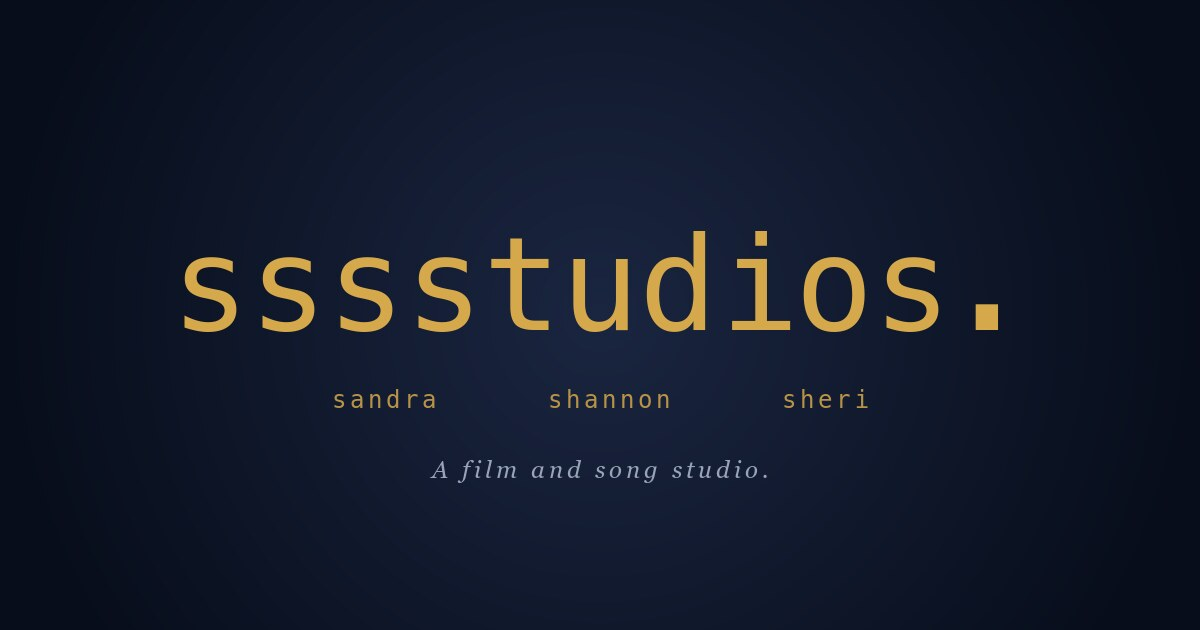
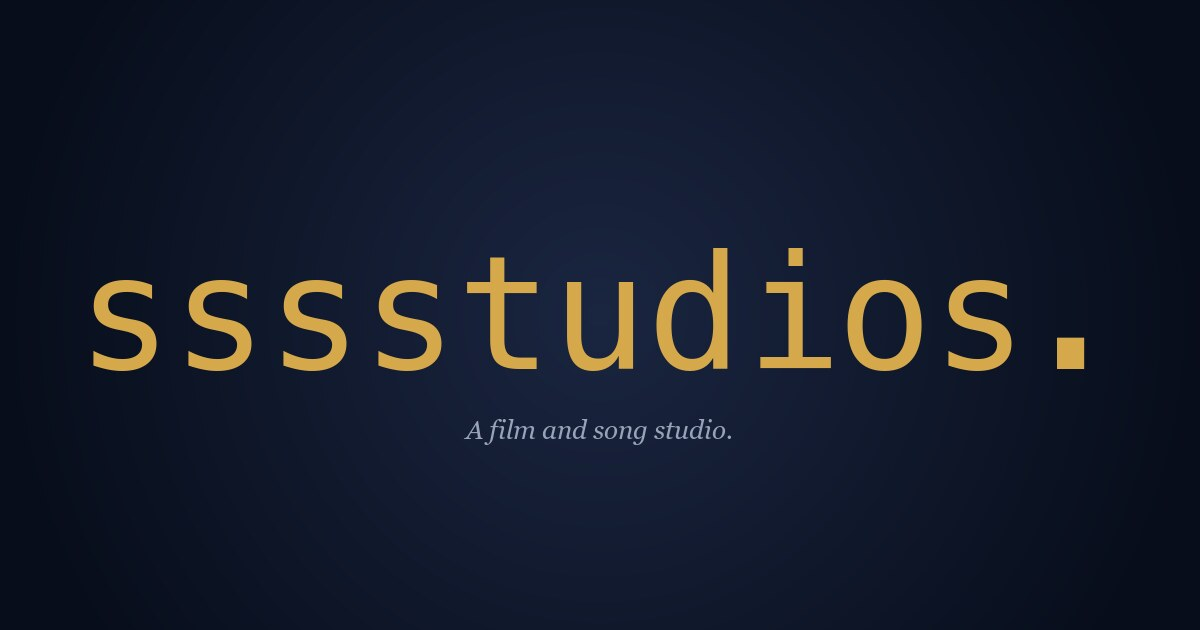
sss: brand mark stands alone (v3 — five-s math)
new hero animation: type 'sssstudios.' straight through.
no firefly metaphor (that belonged to bug, not the studio).
the trailing s — sheri's bookend — gets a quiet warm glow as it lands.
the period drops in last with a soft pop. that's the signature.

dedication line stripped. story lives elsewhere — in the page,
in the substack post, in the answer at the bar. the mark stands alone.

og card: just sssstudios. on cobalt with subtle radial glow + small italic tagline.

the math: five S's across the word — sss=sandra (her initials),
4th s=shannon, 5th s (trailing in 'studios')=sheri the bookend.
documented in MEMORY (project_sssstudios_five_s_math.md).

Changed region(s): [[0.0617, 0.3619, 0.925, 0.6937], [0.37, 0.7238, 0.6167, 0.754]]

diff --git a/sss/index.html b/sss/index.html
@@ -5,19 +5,19 @@
     <meta name="viewport" content="width=device-width, initial-scale=1.0, viewport-fit=cover">
     <meta name="color-scheme" content="dark">
     <meta name="theme-color" content="#070d1a">
-    <title>sssstudios</title>
-    <meta name="description" content="A film and song studio. Sandra. Shannon. Sheri. The first film is lightning/bug.">
+    <title>sssstudios.</title>
+    <meta name="description" content="A film and song studio. The first one is lightning/bug.">
     <meta name="author" content="Derek Claude Simmons">
 
-    <meta property="og:title" content="sssstudios">
-    <meta property="og:description" content="A film and song studio. Sandra. Shannon. Sheri. The first film is lightning/bug.">
+    <meta property="og:title" content="sssstudios.">
+    <meta property="og:description" content="A film and song studio. The first one is lightning/bug.">
     <meta property="og:type" content="website">
     <meta property="og:url" content="https://claudewill.io/sss">
     <meta property="og:image" content="https://claudewill.io/images/sss/og-poster.jpg">
 
     <meta name="twitter:card" content="summary_large_image">
-    <meta name="twitter:title" content="sssstudios">
-    <meta name="twitter:description" content="A film and song studio. Sandra. Shannon. Sheri.">
+    <meta name="twitter:title" content="sssstudios.">
+    <meta name="twitter:description" content="A film and song studio.">
     <meta name="twitter:image" content="https://claudewill.io/images/sss/og-poster.jpg">
 
     <link rel="canonical" href="https://claudewill.io/sss">
@@ -31,7 +31,7 @@
             --cobalt-deep: #070d1a;
             --cobalt: #0a1628;
             --amber: #d4a84b;
-            --amber-bright: #e8c068;
+            --amber-warm: #e8c068;
             --amber-soft: #b89346;
             --amber-faint: rgba(212, 168, 75, 0.08);
             --text: #c8d0dc;
@@ -79,15 +79,15 @@
             text-align: center;
         }
 
-        /* Soft warm glow at center, cooling outward — like a lantern in a dark field */
+        /* Soft warm glow at center, cooling outward */
         .hero::before {
             content: '';
             position: absolute;
             inset: 0;
             background: radial-gradient(
-                ellipse at 50% 48%,
-                rgba(212, 168, 75, 0.06) 0%,
-                rgba(212, 168, 75, 0.02) 30%,
+                ellipse at 50% 50%,
+                rgba(212, 168, 75, 0.07) 0%,
+                rgba(212, 168, 75, 0.02) 32%,
                 rgba(7, 13, 26, 0) 70%
             );
             pointer-events: none;
@@ -102,7 +102,7 @@
             background: radial-gradient(
                 ellipse at center,
                 rgba(7, 13, 26, 0) 50%,
-                rgba(7, 13, 26, 0.55) 100%
+                rgba(7, 13, 26, 0.6) 100%
             );
             pointer-events: none;
             z-index: 1;
@@ -114,13 +114,13 @@
             display: flex;
             flex-direction: column;
             align-items: center;
-            gap: 1.5rem;
+            gap: 2rem;
         }
 
         /* The brand mark — sssstudios. */
         .brand {
             font-family: var(--mono);
-            font-size: clamp(2.6rem, 11vw, 6rem);
+            font-size: clamp(2.4rem, 10vw, 5.5rem);
             font-weight: 400;
             color: var(--amber);
             letter-spacing: -0.025em;
@@ -128,51 +128,39 @@
             display: inline-flex;
             align-items: baseline;
             min-height: 1em;
+            white-space: nowrap;
         }
 
-        /* Each S starts at width 0, opacity 0. Fires reveal-pulse in sequence. */
-        .s {
-            display: inline-block;
-            overflow: hidden;
-            width: 0;
-            opacity: 0;
-            color: var(--amber);
-            white-space: pre;
-        }
-
-        .s.lit {
-            animation: s-reveal 0.6s ease-out forwards, firefly-pulse 1.4s ease-out 0.05s;
-        }
-
-        @keyframes s-reveal {
-            0% { width: 0; opacity: 0; }
-            100% { width: 0.62em; opacity: 1; }
-        }
-
-        @keyframes firefly-pulse {
-            0%   { filter: brightness(0.7); text-shadow: 0 0 0 transparent; }
-            14%  { filter: brightness(2.2); text-shadow: 0 0 32px rgba(232, 192, 104, 0.95), 0 0 8px rgba(255, 220, 140, 0.8); }
-            40%  { filter: brightness(1.1); text-shadow: 0 0 12px rgba(212, 168, 75, 0.4); }
-            100% { filter: brightness(1.0); text-shadow: 0 0 0 transparent; }
-        }
-
-        .rest {
-            display: inline-block;
-            white-space: pre;
-            color: var(--amber);
-            opacity: 0;
-            animation: rest-fade 0.001s linear 0.4s forwards;
-        }
-        @keyframes rest-fade { to { opacity: 1; } }
-
-        /* Each character of "studios." appears via per-char span, animated by JS */
-        .rest .ch {
+        /* Each character is a span. Type animates them in left-to-right. */
+        .brand .ch {
             display: inline-block;
             opacity: 0;
             transform: translateY(2px);
-            transition: opacity 0.18s ease-out, transform 0.18s ease-out;
+            transition: opacity 0.2s ease-out, transform 0.2s ease-out;
+            color: var(--amber);
         }
-        .rest .ch.shown { opacity: 1; transform: translateY(0); }
+        .brand .ch.shown { opacity: 1; transform: translateY(0); }
+
+        /* The trailing s (Sheri — the bookend) holds a quiet residual warmth */
+        .brand .ch.bookend.lit {
+            animation: bookend-glow 1.6s ease-out forwards;
+        }
+
+        @keyframes bookend-glow {
+            0%   { text-shadow: 0 0 0 transparent; filter: brightness(1); color: var(--amber); }
+            30%  { text-shadow: 0 0 28px rgba(212, 168, 75, 0.55), 0 0 6px rgba(232, 192, 104, 0.45); filter: brightness(1.45); color: var(--amber-warm); }
+            100% { text-shadow: 0 0 16px rgba(212, 168, 75, 0.28); filter: brightness(1.04); color: var(--amber); }
+        }
+
+        /* The period is the signature — gets the final beat */
+        .brand .period {
+            display: inline-block;
+            opacity: 0;
+            transform: scale(0.6);
+            transition: opacity 0.4s ease-out, transform 0.4s cubic-bezier(0.34, 1.56, 0.64, 1);
+            color: var(--amber);
+        }
+        .brand .period.shown { opacity: 1; transform: scale(1); }
 
         .cursor {
             display: inline-block;
@@ -188,35 +176,15 @@
             51%, 100% { opacity: 0; }
         }
 
-        /* Dedication row — names align under their respective S, fade in synced */
-        .dedication {
-            display: flex;
-            gap: clamp(1.5rem, 5vw, 3rem);
-            justify-content: center;
-            font-family: var(--mono);
-            font-size: clamp(0.66rem, 1.7vw, 0.8rem);
-            color: var(--amber-soft);
-            letter-spacing: 0.32em;
-            text-transform: lowercase;
-        }
-
-        .dedication .name {
-            opacity: 0;
-            transition: opacity 0.6s ease-out;
-        }
-
-        .dedication .name.shown { opacity: 0.85; }
-
         .tagline {
             font-family: var(--serif);
             font-style: italic;
-            font-size: clamp(0.95rem, 2.1vw, 1.1rem);
+            font-size: clamp(0.95rem, 2.1vw, 1.15rem);
             color: var(--text-soft);
-            max-width: 28rem;
+            max-width: 30rem;
             font-weight: 300;
             opacity: 0;
             transition: opacity 1.2s ease-out;
-            margin-top: 0.5rem;
         }
         .tagline.shown { opacity: 1; }
 
@@ -271,9 +239,7 @@
             background: var(--cobalt-deep);
         }
 
-        .hero-body {
-            padding: 2rem 1.75rem 2.25rem;
-        }
+        .hero-body { padding: 2rem 1.75rem 2.25rem; }
 
         .film-meta {
             font-family: var(--mono);
@@ -313,10 +279,7 @@
             padding-bottom: 2px;
         }
 
-        .film-cta:hover {
-            border-bottom-color: var(--amber);
-            opacity: 1;
-        }
+        .film-cta:hover { border-bottom-color: var(--amber); opacity: 1; }
 
         /* ===== In-production cards ===== */
         .section-label {
@@ -428,11 +391,9 @@
 
         /* Reduced motion: kill animations, show end state */
         @media (prefers-reduced-motion: reduce) {
-            .s, .s.lit { width: 0.62em !important; opacity: 1 !important; animation: none !important; }
-            .rest { opacity: 1 !important; animation: none !important; }
-            .rest .ch { opacity: 1 !important; transform: none !important; }
-            .dedication .name { opacity: 0.85 !important; }
-            .tagline, .scroll-hint { opacity: 1 !important; }
+            .brand .ch, .brand .period { opacity: 1 !important; transform: none !important; animation: none !important; }
+            .brand .ch.bookend { color: var(--amber-warm) !important; text-shadow: 0 0 14px rgba(212, 168, 75, 0.28); }
+            .tagline, .scroll-hint { opacity: 1 !important; transition: none !important; }
             .cursor { display: none; }
         }
     </style>
@@ -444,14 +405,10 @@
     <div class="brand-stage">
 
         <h1 id="brandmark" class="brand" aria-label="sssstudios.">
-            <span class="s s1" aria-hidden="true">s</span><span class="s s2" aria-hidden="true">s</span><span class="s s3" aria-hidden="true">s</span><span class="rest" id="rest-text" aria-hidden="true"></span><span class="cursor" id="cursor" aria-hidden="true"></span>
+            <!-- 11 chars: s s s s t u d i o s .
+                 Position 10 (zero-indexed: 9) is the trailing s — Sheri's bookend. -->
+            <span class="ch" aria-hidden="true">s</span><span class="ch" aria-hidden="true">s</span><span class="ch" aria-hidden="true">s</span><span class="ch" aria-hidden="true">s</span><span class="ch" aria-hidden="true">t</span><span class="ch" aria-hidden="true">u</span><span class="ch" aria-hidden="true">d</span><span class="ch" aria-hidden="true">i</span><span class="ch" aria-hidden="true">o</span><span class="ch bookend" aria-hidden="true">s</span><span class="ch period" aria-hidden="true">.</span><span class="cursor" id="cursor" aria-hidden="true"></span>
         </h1>
-
-        <div class="dedication" aria-label="for sandra, for shannon, for sheri">
-            <span class="name d1">sandra</span>
-            <span class="name d2">shannon</span>
-            <span class="name d3">sheri</span>
-        </div>
 
         <p class="tagline" id="tagline">A film and song studio. The first one is <em>lightning/bug</em>.</p>
 
@@ -471,7 +428,7 @@
              alt="lightning/bug — a boy in a Kansas wheat field at dusk"
              loading="eager">
         <div class="hero-body">
-            <div class="film-meta">the first one · short film · 2026</div>
+            <div class="film-meta">the first one &middot; short film &middot; 2026</div>
             <h2 id="bug-title" class="film-title">lightning/bug</h2>
             <p class="film-logline">A boy. A bug. A bolt. Two kinds of light. Kansas.</p>
             <a class="film-cta" href="/lightning-bug">Watch the film &rarr;</a>
@@ -487,21 +444,21 @@
         <div class="cards">
 
             <article class="card">
-                <div class="card-meta">chamber piece · in production · summer 2026</div>
+                <div class="card-meta">chamber piece &middot; in production &middot; summer 2026</div>
                 <h3 class="card-title">Hallway Walz in D Minor</h3>
                 <p class="card-logline">A five-minute chamber piece. Composed and performed by one diminished man, in the saddest key, in a hallway he keeps returning to.</p>
                 <p class="card-summary">Nine Latin requiem movements. No windows. Doors only. The opposite of <em>lightning/bug</em> — the inside of the same year.</p>
             </article>
 
             <article class="card">
-                <div class="card-meta">music video · in production · summer 2026</div>
+                <div class="card-meta">music video &middot; in production &middot; summer 2026</div>
                 <h3 class="card-title">Buffalo Parade</h3>
                 <p class="card-logline">A buffalo carrying an electric guitar turns into the storm — because the only way through is through.</p>
                 <p class="card-summary">Northern plains, late afternoon into storm. Empire Builder country. A parable for the moment we're in: the storms you have to walk into rather than around. Song first; the visualization serves it.</p>
             </article>
 
             <article class="card">
-                <div class="card-meta">period series · pilot stage · 2026</div>
+                <div class="card-meta">period series &middot; pilot stage &middot; 2026</div>
                 <h3 class="card-title">River Pigs</h3>
                 <p class="card-logline">He recovers bodies from the river. It's the only honest job in the logging trade.</p>
                 <p class="card-summary">A frontier noir set on the St. Croix River during the 1880s Minnesota logging boom — when lumber barons built their fortunes on the backs of the men who rode the log drives and died in them. <em>Fargo</em> meets <em>Landman</em>, set in an era when white pine was America's most valuable commodity.</p>
@@ -534,67 +491,63 @@
 (function() {
     'use strict';
 
-    // Type "studios." into .rest, then light each S with a firefly pulse,
-    // then fade in the matching name in the dedication row.
+    // Type sssstudios. straight through. The bookend (trailing s) holds a quiet
+    // glow as it lands — Sheri arriving in her position. The period is the
+    // signature — final beat with a soft pop.
 
-    var REST = 'studios.';
-    var CHAR_DELAY = 75;            // ms per character of "studios."
-    var REST_START = 400;           // ms before "studios." starts typing
-    var REST_TO_FIRST_S = 700;      // ms from end of "studios." to first S
-    var S_GAP = 720;                // ms between each S reveal
-    var TAGLINE_DELAY = 1200;       // ms after last S → tagline
-    var SCROLL_DELAY = 2200;        // ms after last S → scroll hint
+    var CHAR_DELAY = 80;         // ms per character
+    var TYPE_START = 450;        // ms before typing begins
+    var BOOKEND_LIT_DELAY = 200; // ms after bookend "shown" → glow keyframe
+    var PERIOD_DELAY = 320;      // ms after bookend → period drops in
+    var TAGLINE_DELAY = 900;     // ms after period → tagline fade in
+    var SCROLL_DELAY = 1900;     // ms after period → scroll hint
 
     function $(sel) { return document.querySelector(sel); }
-    function spanCh(c) {
-        var s = document.createElement('span');
-        s.className = 'ch';
-        s.textContent = c;
-        return s;
-    }
+    function $$(sel) { return Array.prototype.slice.call(document.querySelectorAll(sel)); }
 
     function init() {
-        var rest = $('#rest-text');
+        var brand = $('.brand');
         var cursor = $('#cursor');
-        if (!rest) return;
+        if (!brand) return;
 
-        // Build per-character spans for "studios."
-        for (var i = 0; i < REST.length; i++) rest.appendChild(spanCh(REST[i]));
+        var chars = $$('.brand .ch:not(.period), .brand .period');
+        // chars order matches DOM: 4 s's, t, u, d, i, o, s (bookend), .
+        // 11 elements total.
 
-        var chs = rest.querySelectorAll('.ch');
+        var lastNonPeriodIndex = chars.length - 2; // index of trailing s (bookend)
+        var periodIndex = chars.length - 1;
 
-        // Reveal each char in sequence
-        var t = REST_START;
-        chs.forEach(function(ch, i) {
-            setTimeout(function() { ch.classList.add('shown'); }, t + i * CHAR_DELAY);
-        });
-
-        var endOfRest = REST_START + chs.length * CHAR_DELAY;
-
-        // Light each S in sequence + fade in matching name
-        var sNames = [['s1', 'd1'], ['s2', 'd2'], ['s3', 'd3']];
-        sNames.forEach(function(pair, i) {
-            var fireAt = endOfRest + REST_TO_FIRST_S + i * S_GAP;
+        var t = TYPE_START;
+        chars.forEach(function(el, i) {
+            // Period waits for bookend glow to fire first
+            if (i === periodIndex) return;
             setTimeout(function() {
-                var s = document.querySelector('.' + pair[0]);
-                var d = document.querySelector('.' + pair[1]);
-                if (s) s.classList.add('lit');
-                if (d) setTimeout(function() { d.classList.add('shown'); }, 250);
-            }, fireAt);
+                el.classList.add('shown');
+                if (el.classList.contains('bookend')) {
+                    setTimeout(function() {
+                        el.classList.add('lit');
+                    }, BOOKEND_LIT_DELAY);
+                }
+            }, t + i * CHAR_DELAY);
         });
 
-        var lastS = endOfRest + REST_TO_FIRST_S + (sNames.length - 1) * S_GAP;
+        var bookendShownAt = TYPE_START + lastNonPeriodIndex * CHAR_DELAY;
+        var bookendLitAt = bookendShownAt + BOOKEND_LIT_DELAY;
+        var periodAt = bookendLitAt + PERIOD_DELAY;
 
-        // Tagline + scroll hint
+        // Period drops in after the bookend glow has begun
+        setTimeout(function() {
+            chars[periodIndex].classList.add('shown');
+        }, periodAt);
+
         setTimeout(function() {
             var tg = $('#tagline'); if (tg) tg.classList.add('shown');
-        }, lastS + TAGLINE_DELAY);
+        }, periodAt + TAGLINE_DELAY);
 
         setTimeout(function() {
             var sh = $('#scroll-hint'); if (sh) sh.classList.add('shown');
-            // hide cursor after sequence completes
             if (cursor) cursor.style.display = 'none';
-        }, lastS + SCROLL_DELAY);
+        }, periodAt + SCROLL_DELAY);
     }
 
     if (document.readyState === 'loading') {
